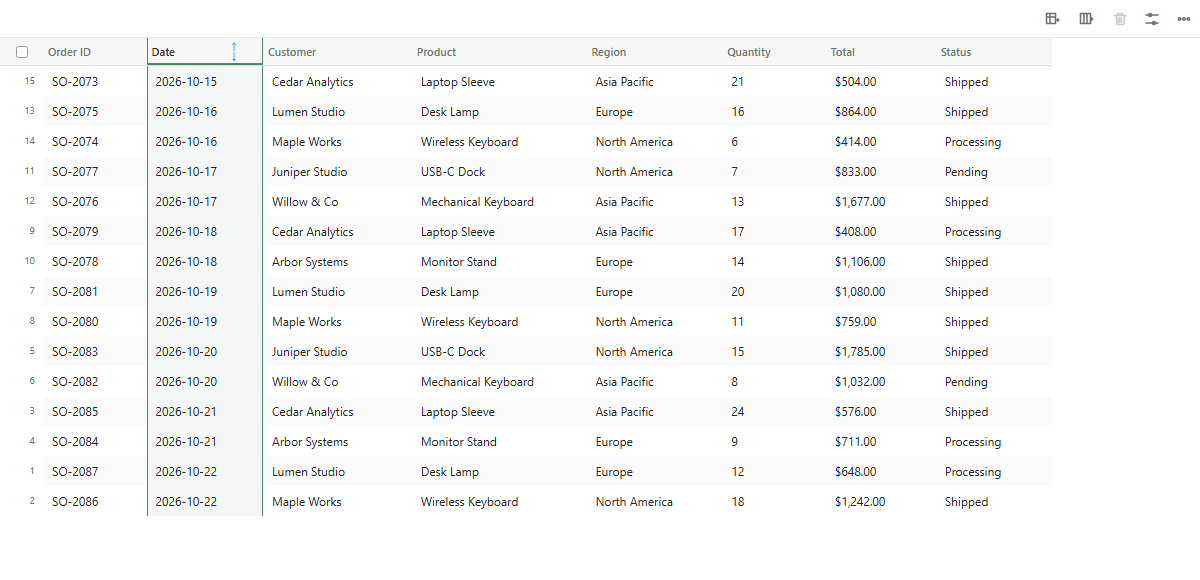
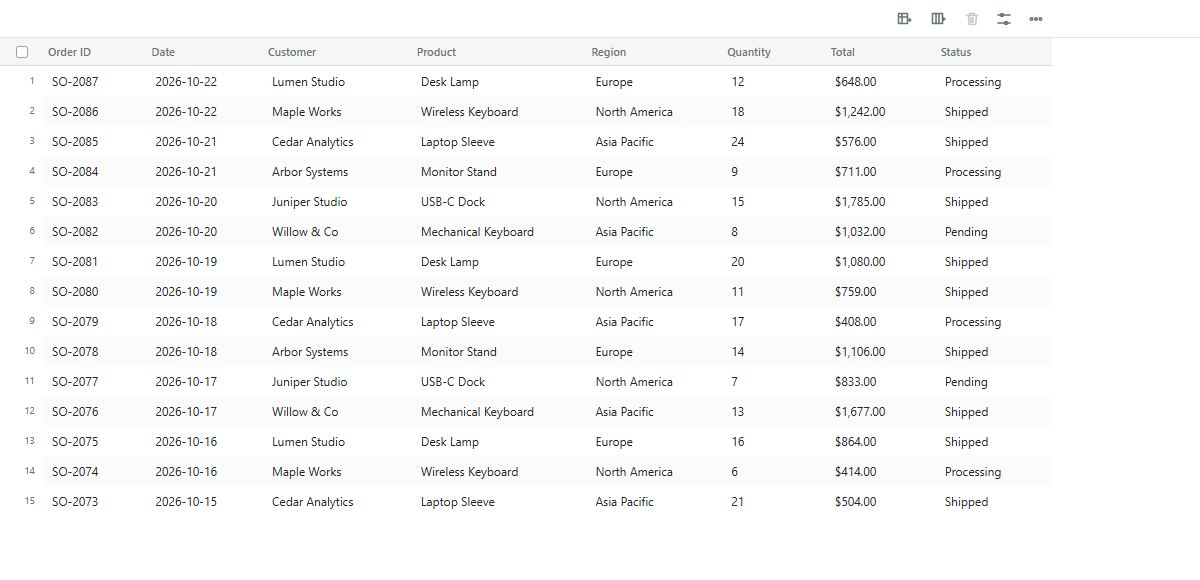
Align toolbar and sort controls

diff --git a/media/editor.js b/media/editor.js
@@ -71,6 +71,8 @@ function applyTranslations() {
 }
 
 const elements = {
+  toolbar: document.querySelector('.toolbar'),
+  toolbarActions: document.querySelector('.toolbar-actions'),
   table: document.getElementById('csv-table'),
   tableHead: document.getElementById('table-head'),
   tableBody: document.getElementById('table-body'),
@@ -262,10 +264,13 @@ function renderHeader() {
     sortButton.append(name);
     const indicators = createElement('span', 'sort-indicators');
     for (const direction of [1, -1]) {
-      const directionButton = createElement('button', 'sort-direction', direction > 0 ? '↑' : '↓');
+      const directionButton = createElement('button', 'sort-direction');
       directionButton.type = 'button';
       directionButton.dataset.sort = String(column);
       directionButton.dataset.sortDirection = String(direction);
+      directionButton.innerHTML = direction > 0
+        ? '<svg viewBox="0 0 16 16" aria-hidden="true"><path d="M8 12V4m-3 3 3-3 3 3"></path></svg>'
+        : '<svg viewBox="0 0 16 16" aria-hidden="true"><path d="M8 4v8m-3-3 3 3 3-3"></path></svg>';
       directionButton.title = t(direction > 0 ? 'Sort ascending' : 'Sort descending');
       directionButton.setAttribute('aria-label', directionButton.title);
       directionButton.setAttribute('aria-pressed', String(sortState?.column === column && sortState.direction === direction));
@@ -369,6 +374,14 @@ function updateSelectAll(checkbox = document.getElementById('select-visible-rows
   checkbox.indeterminate = count > 0 && count < visibleRows.length;
 }
 
+function alignToolbarActions() {
+  const tableWidth = elements.table.getBoundingClientRect().width;
+  const toolbarWidth = elements.toolbar.getBoundingClientRect().width;
+  const actionsWidth = elements.toolbarActions.getBoundingClientRect().width;
+  const rightEdge = Math.min(tableWidth, toolbarWidth);
+  elements.toolbarActions.style.marginLeft = `${Math.max(0, rightEdge - actionsWidth)}px`;
+}
+
 function renderTable() {
   pendingCellRender = false;
   if (filterRenderTimer !== null) {
@@ -380,6 +393,7 @@ function renderTable() {
   renderHeader();
   renderBody();
   updateToolbar();
+  alignToolbarActions();
 }
 
 function recalculateColumnWidths(columns = null) {
@@ -798,6 +812,7 @@ document.addEventListener('pointerup', (event) => {
   resizeState = null;
   document.body.classList.remove('is-resizing-column');
   applyColumnWidth(resizedColumn, columnWidthOverrides[resizedColumn]);
+  alignToolbarActions();
   persistViewState();
 });
 
@@ -807,6 +822,7 @@ document.addEventListener('pointercancel', (event) => {
   resizeState = null;
   document.body.classList.remove('is-resizing-column');
   applyColumnWidth(resizedColumn, columnWidthOverrides[resizedColumn]);
+  alignToolbarActions();
   persistViewState();
 });
 
@@ -820,7 +836,6 @@ elements.table.addEventListener('click', (event) => {
   const sortButton = event.target.closest('[data-sort]');
   if (sortButton) {
     const column = Number(sortButton.dataset.sort);
-    selectedColumn = column;
     const direction = Number(sortButton.dataset.sortDirection);
     sortState = Number.isFinite(direction) && direction !== 0
       ? { column, direction }
@@ -891,6 +906,7 @@ elements.table.addEventListener('keydown', (event) => {
     const header = elements.tableHead.querySelector('th[data-column="' + column + '"]');
     const currentWidth = header?.getBoundingClientRect().width || 120;
     applyColumnWidth(column, currentWidth + (event.key === 'ArrowRight' ? 12 : -12));
+    alignToolbarActions();
     persistViewState();
     return;
   }
@@ -1005,7 +1021,6 @@ document.addEventListener('click', (event) => {
     renderTable();
   } else if ((action === 'sort-ascending' || action === 'sort-descending') && target) {
     sortState = { column: target.column, direction: action === 'sort-ascending' ? 1 : -1 };
-    selectedColumn = target.column;
     closePopovers();
     renderTable();
   } else if (action === 'rename-column' && column >= 0) {
@@ -1020,6 +1035,7 @@ elements.tableScroll.addEventListener('scroll', () => {
 }, { passive: true });
 
 window.addEventListener('resize', () => {
+  alignToolbarActions();
   if (activePopover) closePopovers();
 });
 

diff --git a/media/editor.css b/media/editor.css
@@ -30,7 +30,7 @@ svg { display: block; width: 16px; height: 16px; fill: none; stroke: currentColo
 
 .app-shell { display: flex; flex-direction: column; width: 100%; height: 100%; min-height: 0; }
 .toolbar { display: flex; flex: none; align-items: center; gap: 0; width: 100%; height: 38px; margin: 0; padding: 0; border-bottom: 1px solid var(--border); }
-.toolbar-actions { display: flex; flex: none; align-items: center; gap: 0; margin-left: auto; }
+.toolbar-actions { display: flex; flex: none; align-items: center; gap: 0; margin-left: 0; }
 .tool-group { display: flex; align-items: center; gap: 2px; }
 .tool-button { position: relative; display: inline-grid; flex: none; place-items: center; width: 32px; height: 30px; padding: 0; border: 0; border-radius: 4px; outline: 0; background: transparent; color: var(--muted); }
 .tool-button:hover:not(:disabled), .tool-button[aria-expanded="true"] { background: var(--hover); color: var(--foreground); }
@@ -55,8 +55,9 @@ thead th:first-child { position: sticky; left: 0; z-index: 4; }
 .sort-button { display: flex; flex: 1 1 auto; align-items: center; min-width: 0; height: 25px; overflow: hidden; padding: 0 16px 0 2px; border: 0; border-radius: 3px; outline: 0; background: transparent; color: inherit; font-size: 11px; font-weight: 600; text-align: left; white-space: nowrap; }
 .sort-button:hover, .sort-button.is-sorted { color: var(--foreground); }
 .sort-button > span:first-child { overflow: hidden; text-overflow: ellipsis; }
-.sort-indicators { position: absolute; top: 1px; right: 20px; display: grid; width: 12px; height: 24px; align-content: center; opacity: 0; pointer-events: none; transition: opacity 90ms ease; }
-.sort-direction { display: grid; width: 12px; height: 10px; place-items: center; padding: 0; border: 0; background: transparent; color: var(--muted); font-family: var(--vscode-font-family, sans-serif); font-size: 10px; line-height: 10px; }
+.sort-indicators { position: absolute; top: 0; right: 20px; display: grid; width: 16px; height: 28px; align-content: center; opacity: 0; pointer-events: none; transition: opacity 90ms ease; }
+.sort-direction { display: grid; width: 16px; height: 14px; place-items: center; padding: 0; border: 0; background: transparent; color: var(--muted); }
+.sort-direction svg { width: 11px; height: 11px; stroke-width: 1.8; }
 .sort-direction[aria-pressed="true"] { color: var(--accent); }
 th[data-column]:hover .sort-indicators, th[data-column]:focus-within .sort-indicators, th[data-column][aria-sort="ascending"] .sort-indicators, th[data-column][aria-sort="descending"] .sort-indicators { opacity: 1; pointer-events: auto; }
 .header-button { display: inline-grid; flex: none; place-items: center; width: 21px; height: 22px; padding: 0; border: 0; border-radius: 3px; outline: 0; background: transparent; color: var(--muted); }

diff --git a/README.md b/README.md
@@ -2,7 +2,7 @@
 
 View and edit CSV and TSV files as tables in Visual Studio Code. CSV Simple Editor detects the delimiter, keeps your data in the same editor tab, and makes common table edits quick.
 
-![CSV Simple Editor displaying 15 sales orders in eight columns, sorted by date](https://raw.githubusercontent.com/TingelTangelBob/vscode-csv-editor/main/media/marketplace-screenshot.png)
+![CSV Simple Editor displaying 15 sales orders in eight columns](https://raw.githubusercontent.com/TingelTangelBob/vscode-csv-editor/main/media/marketplace-screenshot.png)
 
 ## Features
 

diff --git a/CHANGELOG.md b/CHANGELOG.md
@@ -1,5 +1,12 @@
 # Changelog
 
+## 1.2.8
+
+- Aligned the toolbar actions with the table edge when the table is narrower than the editor.
+- Repositioned the ascending and descending controls as clear, stacked SVG arrows in each column header.
+- Kept sorting separate from column selection so sorting no longer highlights the entire column.
+- Refreshed the Marketplace screenshot without a preselected column.
+
 ## 1.2.7
 
 - Removed the filename header and side padding, and made the toolbar and column headings more compact.
